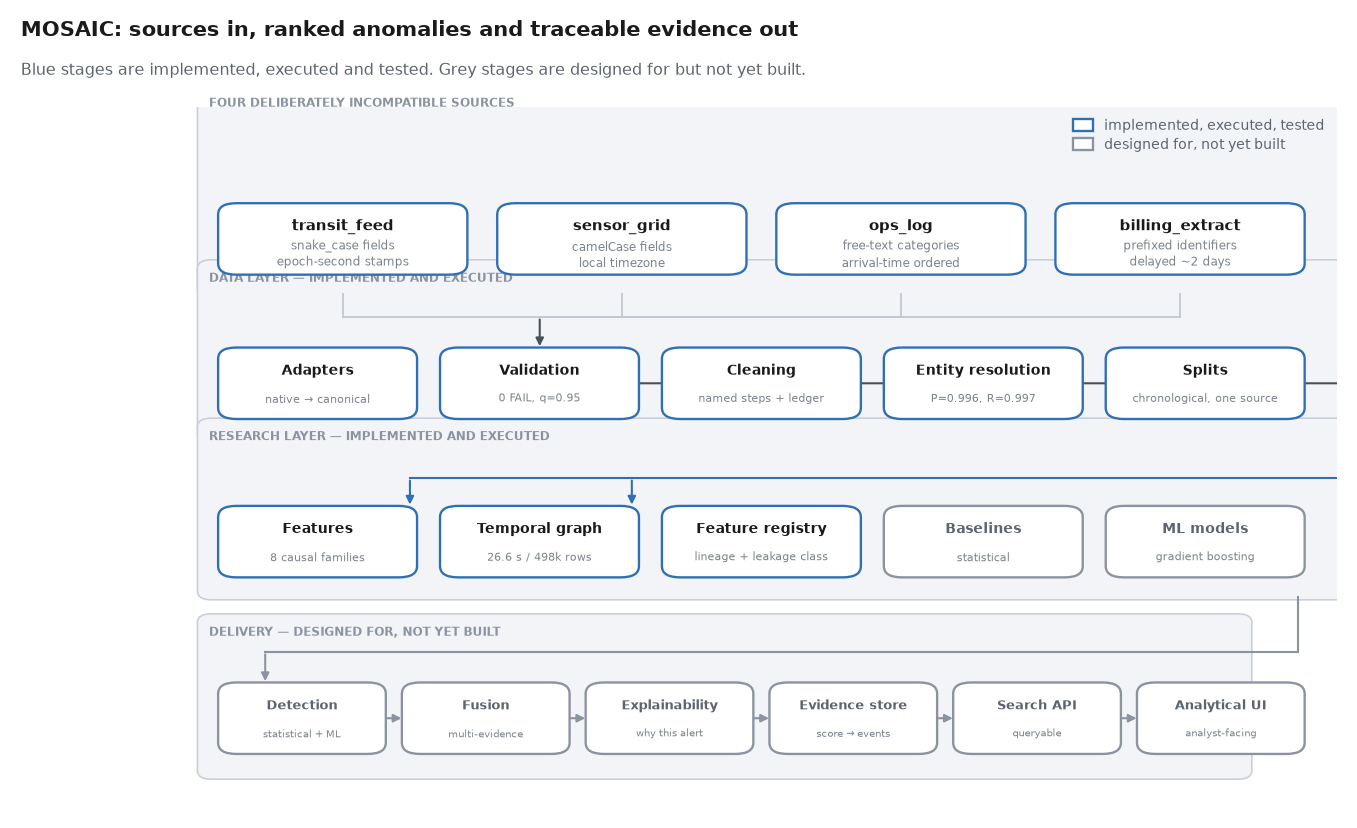
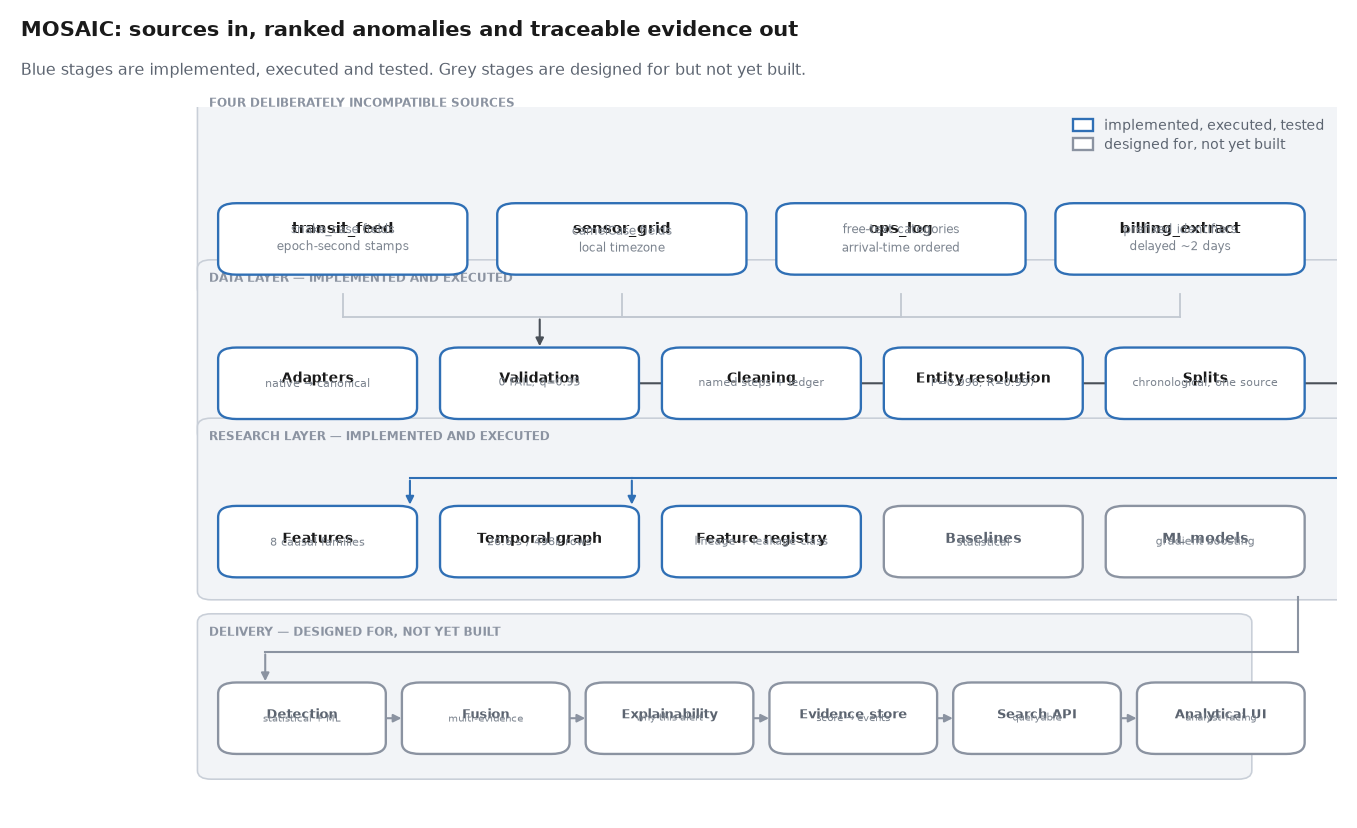
current build save

diff --git a/src/mosaic/reporting/figures.py b/src/mosaic/reporting/figures.py
@@ -80,6 +80,47 @@ def _edge(kind: str) -> str:
     }[kind]
 
 
+def _pt(ax, points: float) -> float:
+    """Convert a font size in points into axes units.
+
+    Axes units are not points: on an 11x5 inch figure one point is roughly 0.0026
+    axes units. Hard-coding 1/72 overstates every text height by more than 5x and
+    silently pushes captions outside their boxes, so the scale is read from the
+    live transform instead.
+    """
+    fig = ax.figure
+    fig.canvas.draw()
+    y0 = ax.transData.inverted().transform((0.0, 0.0))[1]
+    y1 = ax.transData.inverted().transform((0.0, 100.0))[1]
+    return abs(y1 - y0) / 100.0 * points
+
+
+def _text_height(ax, size: float) -> float:
+    """Height in axes units of one rendered line at ``size`` points.
+
+    Measured from the renderer rather than derived from the em square: matplotlib's
+    text extent includes ascent and descent and is noticeably taller than
+    size/72 in axes units. Estimating it put captions on top of their headings.
+    """
+    fig = ax.figure
+    probe = ax.text(
+        0.0,
+        0.0,
+        "Ag",
+        fontsize=size,
+        ha="left",
+        va="baseline",
+        alpha=0.0,
+    )
+    fig.canvas.draw()
+    bb = probe.get_window_extent()
+    inv = ax.transData.inverted()
+    (_, y0) = inv.transform((bb.x0, bb.y0))
+    (_, y1) = inv.transform((bb.x1, bb.y1))
+    probe.remove()
+    return abs(y1 - y0)
+
+
 def _box(
     ax,
     x: float,
@@ -294,9 +335,26 @@ def _multiline_box(
 ) -> None:
     """A box whose explanatory note lives INSIDE it.
 
-    Notes placed beside a box are inevitably crossed by the connector that runs
-    past them, so they go inside where nothing can overlap them.
+    Notes placed beside a box are inevitably crossed by the connector that runs past
+    them, so they go inside where nothing can overlap them.
+
+    ``h`` is treated as a MINIMUM: the box grows when the note wraps to more lines
+    than the height allows. Sizing a box to a fixed height while its caption wraps
+    to three lines is what pushes the last line through the bottom border.
     """
+    lines = note.count("\n") + 1 if note else 0
+    # Measured, not estimated: a single 6.6pt line occupies ~1.8x the em box, so
+    # deriving the height from font size alone understates it and overlaps the text.
+    line_h = _text_height(ax, note_size) * 1.45
+    head_h = _text_height(ax, head_size) * 1.30
+    pad = _pt(ax, 4.0)
+    block_h = head_h + (lines * line_h if lines else 0.0)
+    needed = block_h + 2 * pad
+    h = max(h, needed)
+    # Centre the head+note block vertically. Anchoring the note to the box bottom
+    # instead makes a box that is TALLER than needed push its own caption outside.
+    block_bottom = y + (h - block_h) / 2
+
     ax.add_patch(
         FancyBboxPatch(
             (x, y),
@@ -309,28 +367,43 @@ def _multiline_box(
             zorder=zorder,
         )
     )
-    ax.text(
-        x + w / 2,
-        y + h * 0.68,
-        head,
-        ha="center",
-        va="center",
-        fontsize=head_size,
-        fontweight="bold",
-        color=INK if kind != PLANNED else "#5c6470",
-        zorder=zorder + 1,
-    )
-    ax.text(
-        x + w / 2,
-        y + h * 0.28,
-        note,
-        ha="center",
-        va="center",
-        fontsize=note_size,
-        color="#7c848f",
-        linespacing=1.35,
-        zorder=zorder + 1,
-    )
+    if lines:
+        ax.text(
+            x + w / 2,
+            block_bottom + block_h - head_h / 2,
+            head,
+            ha="center",
+            va="center",
+            fontsize=head_size,
+            fontweight="bold",
+            color=INK if kind != PLANNED else "#5c6470",
+            zorder=zorder + 1,
+        )
+        # va="top", not "center": matplotlib expands a multi-line block upward from
+        # the anchor, so centring it places the first line over the heading.
+        ax.text(
+            x + w / 2,
+            block_bottom + head_h + lines * line_h,
+            note,
+            ha="center",
+            va="top",
+            fontsize=note_size,
+            color="#7c848f",
+            linespacing=1.42,
+            zorder=zorder + 1,
+        )
+    else:
+        ax.text(
+            x + w / 2,
+            block_bottom + block_h / 2,
+            head,
+            ha="center",
+            va="center",
+            fontsize=head_size,
+            fontweight="bold",
+            color=INK if kind != PLANNED else "#5c6470",
+            zorder=zorder + 1,
+        )
 
 
 def architecture(out_path: str | Path) -> str:
@@ -387,7 +460,6 @@ def architecture(out_path: str | Path) -> str:
     )
     _band_around(ax, pipe_boxes, label="Data layer — implemented and executed")
     _, pipe_w, _ = pipe_boxes[0]
-    pipe_stride = pipe_w + 0.024
     for i in range(1, 5):
         x0 = pipe_boxes[i - 1][0]
         _arrow(ax, x0 + pipe_w, 0.556 + H / 2, pipe_boxes[i][0], 0.556 + H / 2)
@@ -449,7 +521,6 @@ def architecture(out_path: str | Path) -> str:
     )
     _band_around(ax, del_boxes, label="Delivery — designed for, not yet built", pad_bot=0.034)
     del_w = del_boxes[0][1]
-    del_stride = del_w + 0.018
     for i in range(1, 6):
         _arrow(ax, del_boxes[i - 1][0] + del_w, 0.078 + H / 2, del_boxes[i][0], 0.078 + H / 2, color=GREY)
 
@@ -558,72 +629,118 @@ def research_workflow(out_path: str | Path) -> str:
 def data_integration(out_path: str | Path) -> str:
     """Why the pipeline starts from incompatible sources.
 
-    The point is that the sources do not merely differ in field names — they
-    disagree about identity, time and units, which is what makes integration a
-    modelling decision rather than a concatenation.
+    The point is not that the sources differ in field names — they disagree about
+    identity, time and units, which is what makes integration a modelling decision
+    rather than a concatenation.
     """
     _style()
-    fig, ax = plt.subplots(figsize=(10.6, 4.6))
+    fig, ax = plt.subplots(figsize=(11.0, 5.0))
     _title(fig, "Four sources that disagree about identity, time and units")
     _subtitle(
         fig,
         "Canonicalization is where information is discarded. Raw records are kept so every decision stays reversible.",
     )
 
+    H = 0.150
+
+    # --- four incompatible sources, full width so no caption can be occluded
+    src_y = 0.700
     src = [
         ("transit_feed", "snake_case fields\nepoch-second stamps\nno location"),
         ("sensor_grid", "camelCase fields\nlocal timezone\nimprecise minutes"),
         ("ops_log", "free-text categories\narrival-time ordered\nno units"),
-        ("billing_extract", "prefixed identifiers\ndelayed by ~2 days\nmoney as text"),
+        ("billing_extract", "prefixed identifiers\ndelayed ~2 days\nmoney as text"),
     ]
-    x = 0.020
-    for name, note in src:
-        _box(ax, x, 0.640, 0.170, 0.190, name, weight="bold", size=8.2)
-        ax.text(
-            x + 0.085,
-            0.615,
-            note,
-            ha="center",
-            va="top",
-            fontsize=6.9,
-            color="#7c848f",
-            linespacing=1.45,
-        )
-        _arrow(ax, x + 0.085, 0.640, 0.330, 0.470)
-        x += 0.208
+    w, stride = _row(len(src), gap=0.036)
+    src_boxes: list[tuple[float, float, float]] = []
+    for i, (head, note) in enumerate(src):
+        x = 0.028 + i * stride
+        _multiline_box(ax, x, src_y, w, H, head, note, head_size=8.2, note_size=6.6)
+        src_boxes.append((x, src_y, w))
+    _band_around(ax, src_boxes, label="Native schemas — mutually incompatible", pad_bot=0.030)
 
-    _box(ax, 0.255, 0.360, 0.290, 0.110, "Adapters — the only place that knows\neach source's conventions", size=8.0)
-    _arrow(ax, 0.400, 0.360, 0.400, 0.268)
+    # --- merge on a bus below the sources so no connector crosses a caption
+    bus_y = src_y - 0.058
+    adapters_w = 0.300
+    adapters_x = 0.028 + (1.0 - 0.028 - 0.030 - adapters_w) / 2
+    adapters_cx = adapters_x + adapters_w / 2
+    for x, _y, bw in src_boxes:
+        cx = x + bw / 2
+        ax.plot([cx, cx], [src_y - 0.030, bus_y], color="#c2c8d1", linewidth=1.0, zorder=1)
+        ax.plot([cx, adapters_cx], [bus_y, bus_y], color="#c2c8d1", linewidth=1.0, zorder=1)
+    _arrow(ax, adapters_cx, bus_y, adapters_cx, src_y - 0.098, color=BLUE)
 
-    _box(
+    # --- adapters
+    ad_y = src_y - 0.200
+    _multiline_box(
         ax,
-        0.150,
-        0.130,
-        0.500,
-        0.138,
-        "Canonical representation\nevent_id · timestamp · entity_ref_norm\n"
-        "event_type · source_id · provenance kept",
-        weight="bold",
-        size=8.0,
+        adapters_x,
+        ad_y,
+        adapters_w,
+        0.100,
+        "Adapters",
+        "the only place that knows\neach source's conventions",
+        head_size=8.2,
+        note_size=6.7,
     )
-    _arrow(ax, 0.640, 0.130, 0.790, 0.130)
+    _arrow(ax, adapters_cx, ad_y, adapters_cx, ad_y - 0.050, color=BLUE)
 
-    _box(ax, 0.715, 0.400, 0.265, 0.140, "Entity resolution\nblocking → match → cluster", size=8.0)
-    _arrow(ax, 0.400, 0.268, 0.715, 0.470)
-    _box(ax, 0.715, 0.140, 0.265, 0.130, "Unified analytical\nrepresentation\n504 clusters / 500 true", weight="bold", size=8.0)
-    _arrow(ax, 0.847, 0.400, 0.847, 0.270, color=ORANGE)
+    # --- canonical representation, then entity resolution, then the unified view.
+    # Three columns on one baseline. The earlier version overlapped them in BOTH
+    # axes, which put the ER title through the canonical box's border.
+    canon_y = ad_y - 0.185
+    col_w, col_gap = 0.290, 0.035
+    col_x = [0.028 + i * (col_w + col_gap) for i in range(3)]
+    for cx_, cw_ in zip(col_x, [col_w] * 3, strict=True):
+        assert cx_ + cw_ <= 1.0 - 0.030 + 1e-9, "column escapes canvas"
 
-    # the lossy decisions, called out because they are where errors enter
+    _multiline_box(
+        ax,
+        col_x[0],
+        canon_y,
+        col_w,
+        0.155,
+        "Canonical representation",
+        "event_id · timestamp\nentity_ref_norm · event_type\nsource_id · provenance kept",
+        head_size=7.8,
+        note_size=6.4,
+    )
+    _multiline_box(
+        ax,
+        col_x[1],
+        canon_y,
+        col_w,
+        0.155,
+        "Entity resolution",
+        "blocking → match → cluster\nsame entity, four name styles",
+        head_size=7.8,
+        note_size=6.4,
+    )
+    _multiline_box(
+        ax,
+        col_x[2],
+        canon_y,
+        col_w,
+        0.155,
+        "Unified analytical view",
+        "504 clusters\nfor 500 true entities\nP=0.996, R=0.997",
+        head_size=7.8,
+        note_size=6.4,
+    )
+    _arrow(ax, col_x[0] + col_w, canon_y + 0.0775, col_x[1], canon_y + 0.0775, color=BLUE)
+    _arrow(ax, col_x[1] + col_w, canon_y + 0.0775, col_x[2], canon_y + 0.0775, color=ORANGE)
+
     ax.text(
-        0.400,
-        0.055,
+        0.500,
+        0.040,
         "Every arrow above is a modelling decision: a time origin, an identity rule, a unit convention.",
         ha="center",
         va="center",
-        fontsize=7.6,
+        fontsize=7.8,
         color=RED,
         style="italic",
     )
+    ax.set_ylim(0.01, 1.0)
     return _finish(fig, ax, Path(out_path))
 
 
@@ -789,7 +906,8 @@ def graph_methodology(out_path: str | Path) -> str:
     )
     _band_around(ax, top_boxes, label="Temporal construction — what MOSAIC does", pad_bot=0.105)
     graph_cx = top_boxes[2][0] + top_boxes[2][2] / 2
-    summary_w, _ = _row(1, gap=0.0)
+    # Cap the summary bar so it cannot run flush against the band edge.
+    summary_w = 0.560
     summary_x = graph_cx - summary_w / 2
     summary_y = top_y - 0.086
     _multiline_box(
